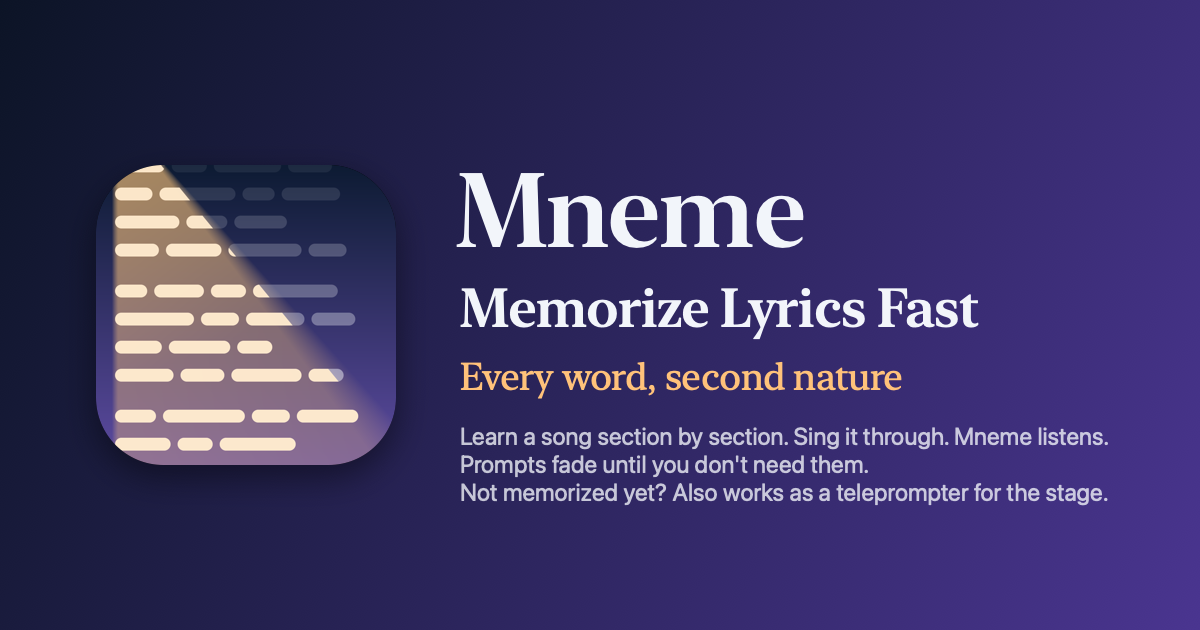
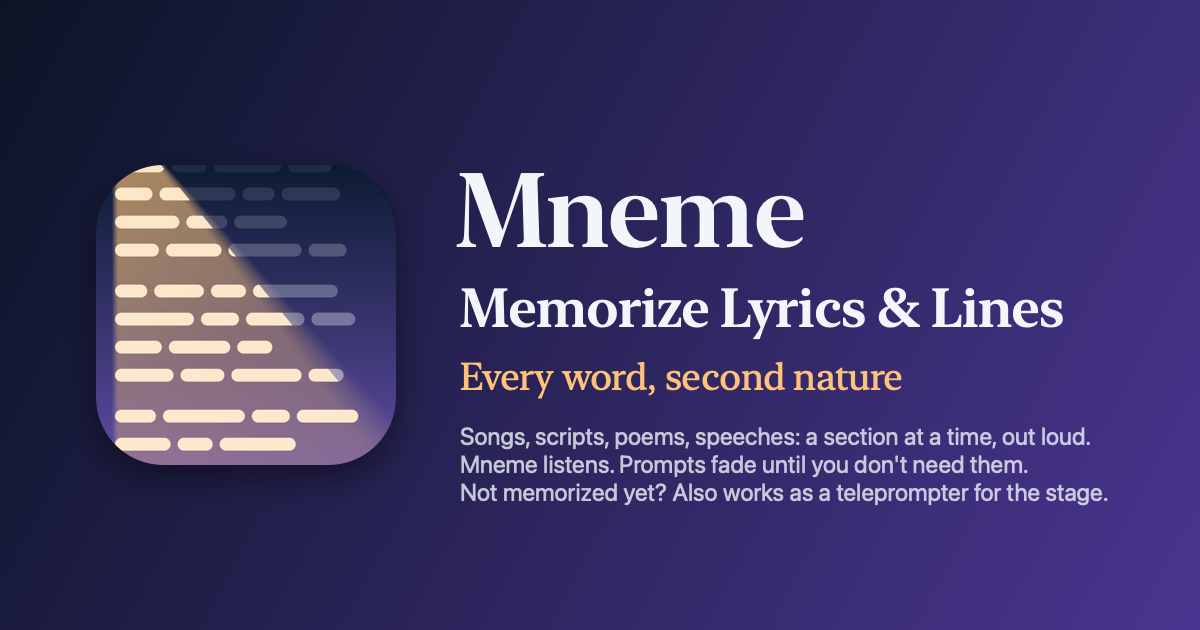
Mneme: lead with every kind of text, then what songs get
Someone looking for a way to learn a script or a speech read "Memorize
Lyrics Fast" and a song-only first page and left before reaching the one
paragraph that said scripts work too. The pages now open on lyrics,
scripts, poems and speeches, give actors and speakers their own lines,
and keep the song-only tools in a section of their own. The name follows
the store listing's, Mneme: Memorize Lyrics & Lines.

Also brings forward what had gone stale: Find online lists scripture,
poetry and play sites since 2026-10-25, the free tier counts pieces,
and the support page explains learning a part in a script.

Claude-Session: https://claude.ai/code/session_01WLC72UnREUi4aZ2ab2pj34

Changed region(s): [[0.37, 0.6635, 0.925, 0.754], [0.7092, 0.4524, 0.8942, 0.5429]]

diff --git a/mneme/index.html b/mneme/index.html
@@ -3,12 +3,12 @@
 <head>
 <meta charset="utf-8">
 <meta name="viewport" content="width=device-width, initial-scale=1">
-<title>Mneme: Memorize Lyrics Fast, on iPhone</title>
-<meta name="description" content="Mneme is an iPhone app that gets a song from the lyric sheet to sung by heart in as few sessions as possible, and listens to you sing it to prove it. Three songs free.">
+<title>Mneme: Memorize Lyrics &amp; Lines, on iPhone</title>
+<meta name="description" content="Mneme is an iPhone app that gets lyrics, a script, a poem or a speech off the page and by heart in as few sessions as possible, and listens to you say or sing it to prove it. Three pieces free.">
 <link rel="canonical" href="https://boynepe.github.io/mneme/">
 <meta property="og:type" content="website">
-<meta property="og:title" content="Mneme: Memorize Lyrics Fast">
-<meta property="og:description" content="Get lyrics memorized and automatic, fast: section by section, then sung through while Mneme listens. Three songs free.">
+<meta property="og:title" content="Mneme: Memorize Lyrics &amp; Lines">
+<meta property="og:description" content="Memorize lyrics, scripts, poems and speeches word for word, fast: section by section, then performed while Mneme listens. Three pieces free.">
 <meta property="og:url" content="https://boynepe.github.io/mneme/">
 <meta property="og:image" content="https://boynepe.github.io/mneme/assets/og.png">
 <meta name="twitter:card" content="summary_large_image">
@@ -18,10 +18,10 @@
 {
   "@context": "https://schema.org",
   "@type": "MobileApplication",
-  "name": "Mneme: Memorize Lyrics Fast",
+  "name": "Mneme: Memorize Lyrics & Lines",
   "operatingSystem": "iOS",
   "applicationCategory": "MusicApplication",
-  "description": "Learn a song's lyrics by heart, section by section, then sing it through while the app listens and marks every line.",
+  "description": "Learn lyrics, a script, a poem or a speech by heart, section by section, then perform it while the app listens and marks every line.",
   "url": "https://boynepe.github.io/mneme/",
   "image": "https://boynepe.github.io/mneme/assets/icon-512.png",
   "author": { "@type": "Person", "name": "Pierce Boyne" },
@@ -39,38 +39,61 @@
   </div>
 </div>
 
-<p class="lede">Get lyrics memorized and automatic, fast, so you can stop
-thinking about them and sing. Need to learn a song fast, or a whole set? Find
-yourself forgetting lines mid-song? Mneme takes a song you can't yet sing
-without reading and makes every word second nature in as few sessions as
-possible, and proves it by listening to you sing it through.</p>
+<p class="lede">Memorize lyrics, a script, a poem or a speech, word for word,
+in as few sessions as possible, so when it counts you can stop thinking about
+the words and perform. Mneme doesn't ask whether you think you know them. It
+listens to you say or sing them, and drills you until they're automatic.</p>
 
-<p>Learn a song a section at a time, out loud, while the words fade: the full
-text, then first letters, then only the shape of each line, then nothing. Drill
-the lines that slipped, each with the line before it as its cue. Then perform
-the whole song with nothing on screen, and see every line marked clean or
-missed, with each line there to play back. Once you have it,
-start it from any section too, so it holds without a run-up.</p>
+<h2>For anyone with words to deliver</h2>
+<p><strong>Actors:</strong> add the script and say which part is yours. Your
+scene partners' lines stay up as your cues while Mneme listens only for yours.
+Screenplays and stage plays are read into characters and scenes for you, and
+you choose how many of their lines to show: all, only the one before each of
+yours, or none.</p>
+<p><strong>Speakers:</strong> a speech, a poem, a sermon, scripture or a
+reading is added the same way and spoken aloud.</p>
+<p><strong>Singers:</strong> everything here works for songs, and songs get
+tools of their own, below.</p>
+
+<h2>How it works</h2>
+<p>Paste the words, find them online, share them from Safari, open a PDF, Word
+or text file, or pick screenshots or scan a printed page. Mneme splits them
+into sections for you to check, and lists anything it left out, like page
+numbers, so you can put it back.</p>
+
+<p>Learn a section at a time, out loud, while the words fade: the full text,
+then first letters, then only the shape of each line, then nothing. Drill the
+lines that slipped, each with the line before it as its cue. Then perform the
+whole piece with nothing on screen, and see every line of yours marked clean
+or missed, with each line there to play back. Once you have it, start it from
+any section too, so it holds without a run-up.</p>
 
 <p>Use it on stage as a backup, or when there wasn't time to memorize: every
-word, large on a dark screen, scrolling at the song's own pace. Give it the
-length, or record a scroll once and it replays. A Bluetooth page-turner pedal,
-keyboard or MIDI, starts it and turns the page. Set lists keep a show's songs in order, to
-rehearse and to scroll through on the night, with the date counting down and
-how many songs are Ready.</p>
+word, large on a dark screen, scrolling at your pace. Record a scroll once and
+it replays. A Bluetooth page-turner pedal, keyboard or MIDI, starts it and
+turns the page. Sets keep a show's pieces in order, to rehearse and to scroll
+through on the night, with the date counting down and how many are Ready.</p>
 
+<h2>Made for songs, too</h2>
+<p>Repeated choruses are learned once. Mneme looks up a song's length, so the
+stage scrolls at the song's own pace from the start. A duet partner's verse or
+a backing vocal's “Hey!” stays up as a cue and is never judged. For band
+singers learning a set, choirs, musical theater and open mic nights.</p>
+
+<h2>Honest, and private</h2>
 <p>When Mneme can't hear a word, it says so instead of guessing, and a line it
 didn't hear never counts against you. There's no account, no ads and no
-tracking; your lyrics and your voice stay on your iPhone or iPad.</p>
+tracking; your words and your voice stay on your iPhone or iPad.</p>
 
-<p class="muted">Three songs free, with every learning mode. Mneme Pro is every song
-after that, as a one-time purchase, not a subscription. Coming to the App
-Store.</p>
+<p class="muted">Three pieces free, with every learning mode. Mneme Pro is
+every piece after that, as a one-time purchase, not a subscription. Coming to
+the App Store.</p>
 
 <h2>Why “Mneme”?</h2>
 <p>In Greek myth, Mneme (say <em>NEE-mee</em>) was one of the three original
-Muses: the Muse of memory. Long before lyric sheets, singers carried every word
-in their heads. That's still the job, and this is an app for it.</p>
+Muses: the Muse of memory. Long before scripts and lyric sheets, actors, poets
+and singers carried every word in their heads. That's still the job, and this
+is an app for it.</p>
 
 <h2>Pages</h2>
 <ul>

diff --git a/mneme/support/index.html b/mneme/support/index.html
@@ -23,24 +23,25 @@ It's a one-person app, so you'll get a reply from an actual human — usually
 within two or three days.</p>
 
 <p>If you're reporting a bug, it helps enormously to include your iPhone model,
-your iOS version, the song's length, and what you were doing when it happened.
+your iOS version, the piece's length, and what you were doing when it happened.
 Mneme has no analytics, so your description is genuinely the only information I
 get.</p>
 
 <h2>Common questions</h2>
 
-<h3>Where do I start with a new song?</h3>
-<p>Add it — paste it, use <strong>Find online</strong>, share it from Safari, or
-pick screenshots or scan a printed sheet — and check the section cards Mneme
-shows before you save. Then open the song and tap the mode marked <strong>Up
-next</strong>. For a new song that's Learn: one section at a time, sung out
-loud, with the words fading as each one holds.</p>
+<h3>Where do I start with something new?</h3>
+<p>Add it — paste it, use <strong>Find online</strong>, share it from Safari,
+open a PDF, Word or text file, or pick screenshots or scan a printed sheet —
+choose whether it's a song, a script or a poem or other text, and check the
+section cards Mneme shows before you save. Then open it and tap the mode
+marked <strong>Up next</strong>. For a new piece that's Learn: one section at a
+time, said or sung out loud, with the words fading as each one holds.</p>
 
 <h3>It marked a line wrong that I sang right.</h3>
 <p>Speech recognition can mishear, and singing is harder for it than speech.
 Mneme is built to say "not heard" rather than guess, so a line it really
 couldn't make out is shown as unheard and never counts against you. If clean
-lines keep being marked wrong, tell me which song and which words — that is
+lines keep being marked wrong, tell me which piece and which words — that is
 exactly the case I most want to fix.</p>
 
 <h3>Can I sing along with a guitar or a backing track?</h3>
@@ -50,15 +51,15 @@ mark one down. For the clearest results, sing unaccompanied, or hold the phone
 nearer your mouth than the instrument. Speaking the words works best of all.</p>
 
 <h3>What do Ready and Solid mean?</h3>
-<p>A song is <strong>Ready</strong> when you've sung it through from the top,
+<p>A piece is <strong>Ready</strong> when you've said or sung it through from the top,
 with nothing on screen, cleanly. It's <strong>Solid</strong> when you can also
 pick it up cold from any section — which is what saves you when you lose your
 place on stage.</p>
 
-<h3>How many songs are free?</h3>
-<p>Three, with every mode, for as long as you like. Mneme Pro is a one-time
-purchase that lets you add as many as you want. Deleting a song makes room for
-another.</p>
+<h3>How many pieces are free?</h3>
+<p>Three songs, scripts or poems, with every mode, for as long as you like.
+Mneme Pro is a one-time purchase that lets you add as many as you want.
+Deleting a piece makes room for another.</p>
 
 <h3>I bought Pro and it isn't showing.</h3>
 <p>Open <strong>Settings › Mneme Pro › Restore purchases</strong>. Your purchase
@@ -66,7 +67,7 @@ follows your Apple Account, so it works on a new phone or after a reinstall.</p>
 
 <h3>How do I set up a page-turner pedal?</h3>
 <p>Most pedals type keys and need no setup. Pair it in the iPhone's
-<strong>Settings › Bluetooth</strong>, open a song's <strong>Stage</strong>,
+<strong>Settings › Bluetooth</strong>, open a piece's <strong>Stage</strong>,
 and press: → ↓, Page Down, Space and Return turn forward, or start the
 scroll; ← ↑ and Page Up turn back.</p>
 <p>A MIDI pedal (an M-VAVE Chocolate in its MIDI mode, for one) sends
@@ -76,10 +77,17 @@ for it, and the same for <strong>Back</strong>. Program changes, control
 changes and notes all work. Set the pedal's buttons to momentary, not
 toggle, or every other press is lost.</p>
 
-<h3>Can I use it for things that aren't songs?</h3>
-<p>Yes — a poem, a monologue, a speech, scripture or a prayer. Add the words
-as a song and speak them instead of singing; spoken words are what the
-recognizer hears best.</p>
+<h3>How do I learn my part in a script?</h3>
+<p>Add the script as a <strong>Script</strong>. A screenplay or a stage play
+is read into characters and scenes when you tap <strong>Next</strong>; check
+what it found, fix any name it got wrong from a line's menu, and say whose
+part is yours. Everyone else's lines stay up as your cues and are never
+judged. In Learn and Perform, <strong>Show their lines</strong> chooses how
+many: all of them, only the one before each of yours, or none.</p>
+
+<h3>What about a poem, a speech or scripture?</h3>
+<p>Add it as a <strong>Poem or text</strong> and speak it. Spoken words are
+what the recognizer hears best.</p>
 
 <footer>Mneme · <a href="../">Home</a></footer>
 

diff --git a/mneme/privacy/index.html b/mneme/privacy/index.html
@@ -16,7 +16,7 @@
 </nav>
 
 <h1>Privacy Policy</h1>
-<p class="muted">Last updated October 26, 2026</p>
+<p class="muted">Last updated November 7, 2026</p>
 
 <div class="callout">
 <p><strong>Mneme does not collect any data.</strong> Not anonymized data, not
@@ -28,10 +28,10 @@ analytics, no advertising and no third-party SDK of any kind in the app.</p>
 the person who wrote the app, and it describes what the code actually does.</p>
 
 <h2>What stays on your phone</h2>
-<p>Your songs, your practice history (which lines held, which slipped, when you
+<p>Your songs, scripts and other pieces, your practice history (which lines held, which slipped, when you
 practiced) and your settings are stored inside the app's own storage on your
 iPhone. There is no server behind Mneme, and none of this is sent anywhere,
-except a song's title and artist (below). Deleting a song deletes its history;
+except a song's title and artist (below). Deleting a piece deletes its history;
 deleting the app deletes everything.</p>
 
 <h2>Song lengths</h2>
@@ -44,26 +44,26 @@ Scripts and poems are never looked up, and neither is a song you've typed a
 length for.</p>
 
 <h2>Microphone and speech recognition</h2>
-<p>Mneme listens while you sing or speak a song, to tell which words you got.
+<p>Mneme listens while you sing or speak, to tell which words you got.
 It asks for the microphone and for speech recognition the first time you start
 a practice pass, and nothing in it listens until you tap Start.</p>
 <p>Recognition runs entirely on your iPhone, using Apple's on-device speech
 model, which iOS downloads from Apple once. Your audio is not sent to Apple or
 to me.</p>
-<p>Mneme keeps a recording of each song's latest Perform on your phone, so you
+<p>Mneme keeps a recording of each piece's latest Perform on your phone, so you
 can play a line back. It is about 0.2 MB a minute, it never leaves the device,
 and <strong>Settings › Recordings</strong> turns it off and deletes the ones
 kept.</p>
 
 <h2>Camera and photos</h2>
-<p>You can add lyrics by scanning a printed page or choosing screenshots. The
+<p>You can add words by scanning a printed page or choosing screenshots. The
 text is read on your iPhone. The pictures are not kept, and Mneme only sees the
 photos you pick.</p>
 
 <h2>Find online</h2>
-<p>Find online is a small web browser inside Mneme for searching for a song's
-lyrics. It opens Google, with SafeSearch on, and a list of lyrics sites, and
-nothing else. The pages you visit are loaded directly from those sites, under their own privacy policies, the same as
+<p>Find online is a small web browser inside Mneme for searching for the
+words you want to learn. It opens Google, with SafeSearch on, and a fixed list
+of lyrics, hymn, scripture, poetry and play sites, and nothing else. The pages you visit are loaded directly from those sites, under their own privacy policies, the same as
 in Safari. Mneme reads only the text you select and choose to use. It blocks
 known advertising networks on those pages. Mneme keeps no record of what you
 search for or visit; the sites' own cookies are kept by iOS's web view, as Safari
@@ -78,7 +78,7 @@ governs the purchase.</p>
 <h2>Children</h2>
 <p>Because Mneme collects nothing from anyone, it collects nothing from children
 either. It has no ads and no way to communicate with other people. Find online
-opens only Google, with SafeSearch on, and lyrics sites.</p>
+opens only Google, with SafeSearch on, and that list of sites.</p>
 
 <h2>Your rights</h2>
 <p>Laws such as the GDPR and the CCPA give you the right to see, correct, export

diff --git a/mneme/terms/index.html b/mneme/terms/index.html
@@ -16,7 +16,7 @@
 </nav>
 
 <h1>Terms of Use</h1>
-<p class="muted">Last updated October 17, 2026</p>
+<p class="muted">Last updated November 7, 2026</p>
 
 <p class="lede">Mneme is licensed to you under Apple's Standard End User License
 Agreement, the same terms that cover most apps on the App Store.</p>
@@ -30,19 +30,20 @@ Apple's Standard EULA</a> — this is the license agreement for Mneme.</p>
 it is paid for, and how refunds and restoring work.</p>
 
 <h2>The app</h2>
-<p>Mneme is a lyric memorization app for iPhone, made by Pierce Boyne, an
+<p>Mneme is an app for memorizing lyrics, scripts and other text, for iPhone, made by Pierce Boyne, an
 independent developer. Downloading and using the free portion of the app costs
 nothing and requires no account.</p>
 
 <h2>Mneme Pro</h2>
-<p>Mneme is free for three songs, with every practice mode. Pro is a single
-purchase, made once, that lets you add as many songs as you like. The price is
+<p>Mneme is free for three pieces (songs, scripts or poems), with every
+practice mode. Pro is a single purchase, made once, that lets you add as many
+as you like. The price is
 shown in the app before you buy, and in the App Store listing, in your local
 currency.</p>
 <p><strong>There is no subscription.</strong> You pay once and keep Pro
 permanently. Nothing renews, nothing expires, and there is nothing to cancel.
 Payment is charged to your Apple Account when you confirm the purchase.</p>
-<p>Songs already in your library are never locked, with or without Pro.</p>
+<p>Pieces already in your library are never locked, with or without Pro.</p>
 
 <h2>Refunds</h2>
 <p>Refunds are issued by Apple, not by me. Request one at
@@ -56,10 +57,11 @@ it.</p>
 Mneme Pro › Restore purchases</strong> inside Mneme. Your purchase follows your
 Apple Account, not the device.</p>
 
-<h2>Lyrics you add</h2>
-<p>Mneme stores the lyrics you add on your phone, for your own practice. Song
-lyrics are usually under copyright; using them to learn a song for yourself is
-up to you, and Mneme does not share or publish them anywhere.</p>
+<h2>Words you add</h2>
+<p>Mneme stores the words you add on your phone, for your own practice. Song
+lyrics and scripts are usually under copyright; using them to learn something
+for yourself is up to you, and Mneme does not share or publish them
+anywhere.</p>
 
 <h2>What Mneme is not</h2>
 <p>Mneme is a practice tool. It is provided as-is, without warranty that it will
